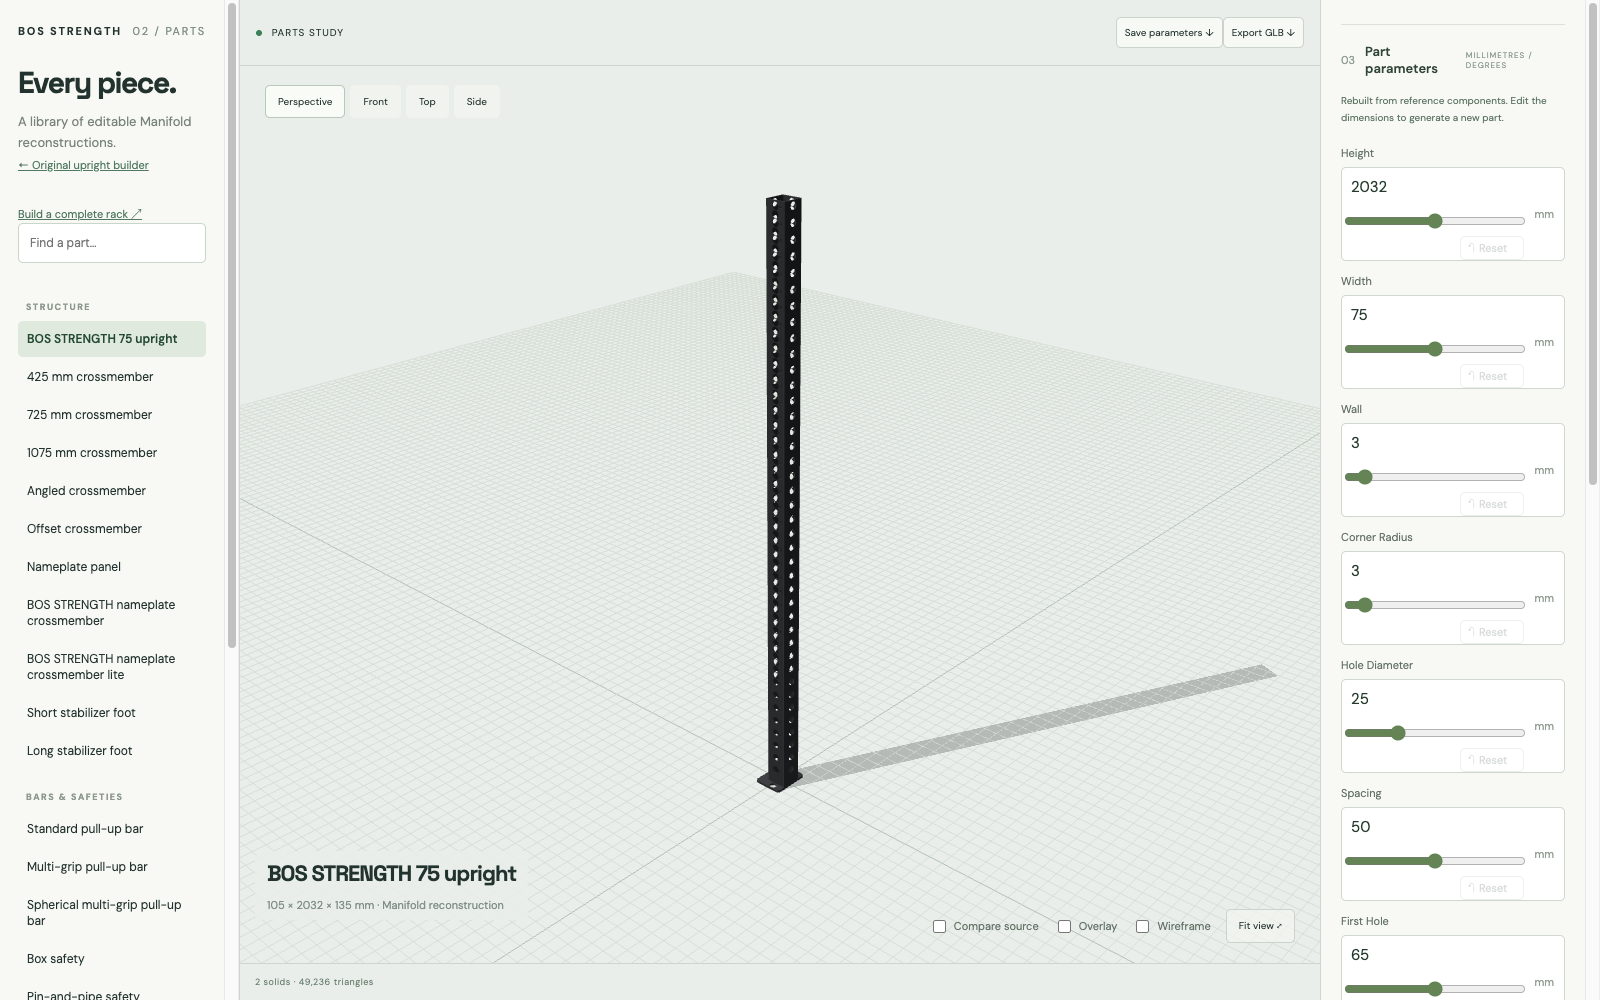
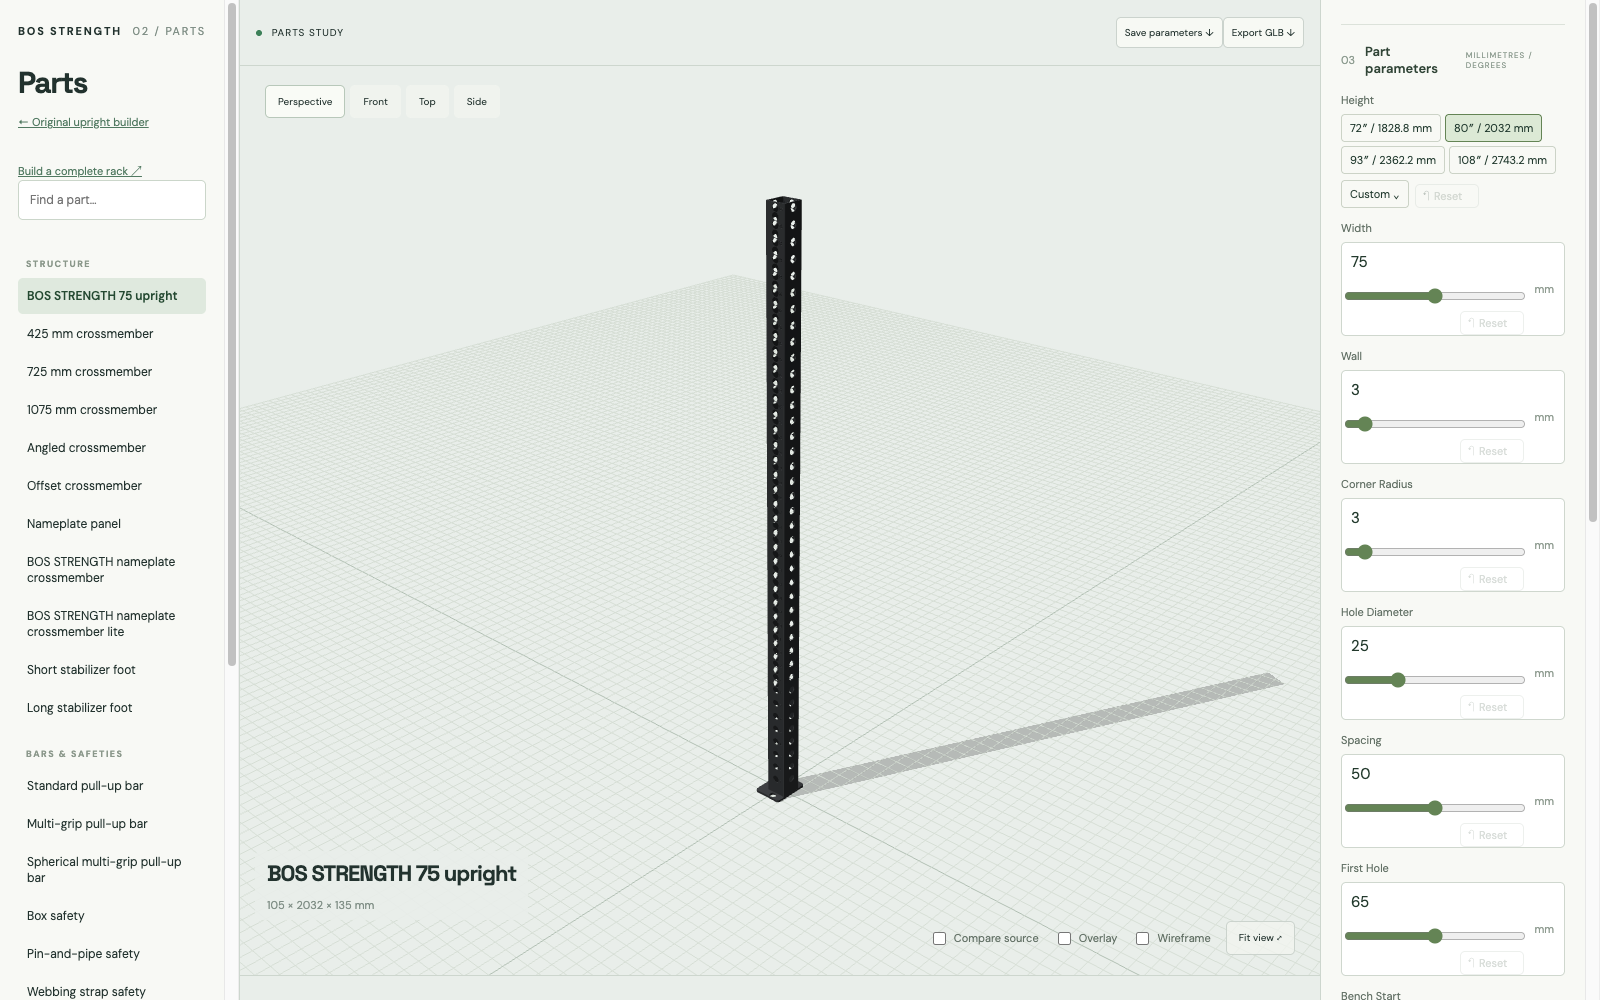
Bound visual harness waits and record verified lifecycle results

diff --git a/src/scenes/visuals-browser-check.ts b/src/scenes/visuals-browser-check.ts
@@ -1,4 +1,5 @@
 /** Manual browser integration checks: open /scripts/visuals-check.html on the dev server. */
+import { boundedWait, boundedFrame } from './visual-check-timing.ts';
 import * as THREE from 'three';
 import { createBuilderScene } from './builder-scene.ts';
 import { FrameFinishResources } from './frame-finishes.ts';
@@ -8,8 +9,12 @@ import { BuilderStore } from '../state/builder-store.ts';
 function check(condition: unknown, message: string): asserts condition {
   if (!condition) throw Error(message);
 }
-const frames = async (count: number) => { for (let i = 0; i < count; i++) await new Promise(requestAnimationFrame); };
-export async function runVisualChecks(viewport: HTMLElement) {
+export async function runVisualChecks(viewport: HTMLElement, onProgress: (stage: string) => void = () => {}) {
+  const deadline = performance.now() + 45000;
+  let stage = 'resource ownership';
+  const progress = (value: string) => { stage = value; onProgress(stage); };
+  const frames = async (count: number) => { for (let i = 0; i < count; i++) await boundedFrame(deadline, stage); };
+  progress(stage);
   const pool = new FrameFinishResources(8);
   const first = pool.material({ role: 'frame' }, { frameFinish: 'clear-grind' });
   const second = pool.material({ role: 'frame' }, { frameFinish: 'stainless' });
@@ -42,7 +47,8 @@ export async function runVisualChecks(viewport: HTMLElement) {
     for (let cycle = 0; cycle < 3; cycle++) {
       const releasedBefore = live.size;
       const storage = { getItem: () => null, setItem: () => {} };
-      const store = new BuilderStore(storage); await store.ready;
+      progress(`cycle ${cycle + 1} / storage`);
+      const store = new BuilderStore(storage); await boundedWait(store.ready, deadline, stage);
       store.commit({ ...store.getSnapshot().doc, appearance: { frameFinish: 'clear-grind', finishOverrides: { 'front-left': 'stainless' } } });
       const scene = createBuilderScene(viewport, store);
       try {
@@ -52,18 +58,22 @@ export async function runVisualChecks(viewport: HTMLElement) {
           check(!store.getSnapshot().error, store.getSnapshot().status);
           await frames(3);
         };
+        progress(`cycle ${cycle + 1} / initial build`);
         await waitBuilt();
         const stableTextures = created - deleted - releasedBefore;
         for (let i = 0; i < 12; i++) {
+          progress(`cycle ${cycle + 1} / finish edit ${i + 1}`);
           store.commit({ ...store.getSnapshot().doc, appearance: { frameFinish: i % 2 ? 'clear-grind' : 'stainless' } });
           await waitBuilt();
         }
         check(created - deleted - releasedBefore === stableTextures, 'Repeated finish edits leaked GPU textures');
+        progress(`cycle ${cycle + 1} / 60 idle frames`);
         const beforeUploads = uploads, start = performance.now();
         await frames(60);
         const idleMs = performance.now() - start;
         check(uploads === beforeUploads, 'Idle render loop uploaded new textures');
-        const data = await scene.exportGLB();
+        progress(`cycle ${cycle + 1} / GLB export`);
+        const data = await boundedWait(scene.exportGLB(), deadline, stage, 15000);
         const view = new DataView(data);
         const json = JSON.parse(new TextDecoder().decode(new Uint8Array(data, 20, view.getUint32(12, true))));
         check(json.images?.length >= 2, 'GLB lost procedural brush images');
@@ -73,12 +83,15 @@ export async function runVisualChecks(viewport: HTMLElement) {
         check(json.meshes.every((m: { primitives: { attributes: Record<string, unknown> }[] }) => m.primitives.every(p => p.attributes.TEXCOORD_0 !== undefined)), 'GLB lost UVs');
         cycles.push({ cycle, stableTextures, idleUploads: uploads - beforeUploads, idle60FramesMs: Math.round(idleMs), glbBytes: data.byteLength, brushImages: json.images.length, dimensions: store.getSnapshot().dimensions });
       } finally { scene.dispose(); }
+      progress(`cycle ${cycle + 1} / teardown`);
       check(viewport.querySelectorAll('canvas').length === 0, 'Canvas survived scene teardown');
       await frames(2);
       check([...live.values()].every(({ context }) => context.isContextLost()), `GPU resources survived scene teardown: ${JSON.stringify([...live.values()].map(v => v.stack))}`);
       // Three owns fallback textures until forceContextLoss; app textures are explicitly disposed.
 
     }
+  } catch (error) {
+    throw Error(`${stage}: ${error instanceof Error ? error.message : String(error)}`);
   } finally { gl.createTexture = create; gl.deleteTexture = remove; gl.texImage2D = upload; }
   return { passed: true, brushDisposed, floorDisposed, created, deleted, releasedByContextLoss: live.size, cycles };
 }

diff --git a/src/scenes/visual-check-timing.test.ts b/src/scenes/visual-check-timing.test.ts
@@ -1,0 +1,17 @@
+import { test } from 'node:test';
+import assert from 'node:assert/strict';
+import { boundedFrame, boundedWait } from './visual-check-timing.ts';
+
+test('a suspended animation frame fails at the overall deadline and cancels its callback', async () => {
+  const request = globalThis.requestAnimationFrame, cancel = globalThis.cancelAnimationFrame;
+  let cancelled = 0;
+  globalThis.requestAnimationFrame = () => 42;
+  globalThis.cancelAnimationFrame = id => { cancelled = id; };
+  try {
+    await assert.rejects(boundedFrame(performance.now() + 10, 'cycle 2 / idle'), /cycle 2 \/ idle \/ animation frame: timed out/);
+    assert.equal(cancelled, 42);
+  } finally { globalThis.requestAnimationFrame = request; globalThis.cancelAnimationFrame = cancel; }
+});
+test('a stalled export gets a stage-specific timeout without depending on frames', async () => {
+  await assert.rejects(boundedWait(new Promise<never>(() => {}), performance.now() + 10, 'cycle 1 / GLB'), /cycle 1 \/ GLB: timed out/);
+});

diff --git a/src/scenes/visual-check-timing.ts b/src/scenes/visual-check-timing.ts
@@ -1,0 +1,15 @@
+/** Test-harness waits must fail even when a hidden tab stops delivering frames. */
+export async function boundedWait<T>(promise: Promise<T>, deadline: number, stage: string, timeoutMs = 3000): Promise<T> {
+  let timer: ReturnType<typeof setTimeout> | undefined;
+  try {
+    return await Promise.race([promise, new Promise<never>((_, reject) => {
+      timer = setTimeout(() => reject(Error(`${stage}: timed out (tab may be hidden)`)), Math.max(0, Math.min(timeoutMs, deadline - performance.now())));
+    })]);
+  } finally { clearTimeout(timer); }
+}
+export async function boundedFrame(deadline: number, stage: string) {
+  let frame = 0;
+  try {
+    await boundedWait(new Promise<number>(resolve => { frame = requestAnimationFrame(resolve); }), deadline, `${stage} / animation frame`);
+  } finally { cancelAnimationFrame(frame); }
+}

diff --git a/scripts/visuals-check.html b/scripts/visuals-check.html
@@ -3,7 +3,7 @@
 <div id="viewport"></div><pre id="results">Running…</pre>
 <script type="module">
 import { runVisualChecks } from '/src/scenes/visuals-browser-check.ts';
-window.visualChecks = runVisualChecks(document.querySelector('#viewport')).then(result => {
+window.visualChecks = runVisualChecks(document.querySelector('#viewport'), stage => { document.querySelector('#results').textContent = stage; }).then(result => {
   document.querySelector('#results').textContent = JSON.stringify(result, null, 2);
   return result;
 }).catch(error => { document.querySelector('#results').textContent = error.stack; throw error; });

diff --git a/docs/evidence/issues-25-26-27/README.md b/docs/evidence/issues-25-26-27/README.md
@@ -25,3 +25,11 @@ The floor adds one draw call; shadow maps update on rebuild, not while orbiting.
 3MF receives only the dominant flat color from `resolveMaterial(...).color`; brush
 texture, reflection and clear-coat behavior are GLB/viewer features. Paint swatches
 are approximate, not calibrated vendor samples. These notes intentionally stay in docs.
+
+The recorded successful run is in `lifecycle.json`. Later retries in hidden/background
+tabs exposed an unbounded RAF wait in the harness, not evidence of an application
+resource leak. The harness now has a 3-second frame timeout, a 45-second overall
+async deadline, bounded storage/export waits, and exact cycle/stage progress. Unit
+tests simulate suspended RAF and stalled export promises. Already verified lifecycle
+checks were not repeated after this harness-only fix. Final main integration is
+covered by the repository tests/build and shared-exporter tests.

diff --git a/rack-generator/appearance.md b/rack-generator/appearance.md
@@ -82,3 +82,13 @@ implementation; deprecated PCFSoftShadowMap is not used.
 
 Material behavior follows the official [MeshPhysicalMaterial docs](https://threejs.org/docs/pages/MeshPhysicalMaterial.html)
 and [GLTFExporter extension support](https://threejs.org/docs/pages/GLTFExporter.html).
+
+## Multi-select integration (#31 / PR #37)
+
+The current main used here still exposes a single selected physical ID. Preserve the
+multi-select stream's `PhysicalInstanceId[]` when integrating its controls; do not
+collapse it to an owner ID. Bulk finish changes should write `finishOverrides[id]`
+for every selected physical frame piece. Bulk paint changes should also set that
+piece's finish to `paint`. Duplication must remap both `overrides` and
+`finishOverrides`; removing/resetting an override removes both. The multi-select
+follow-up owns that implementation and its mixed-selection UX/tests.
